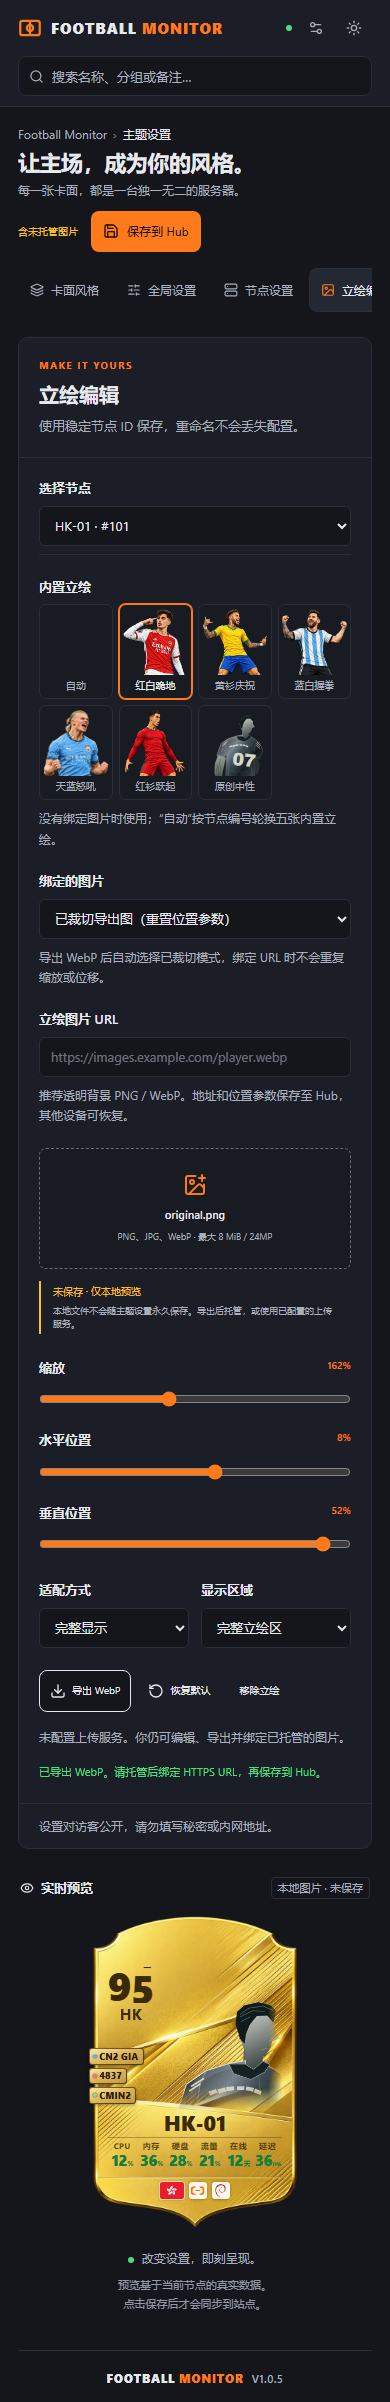
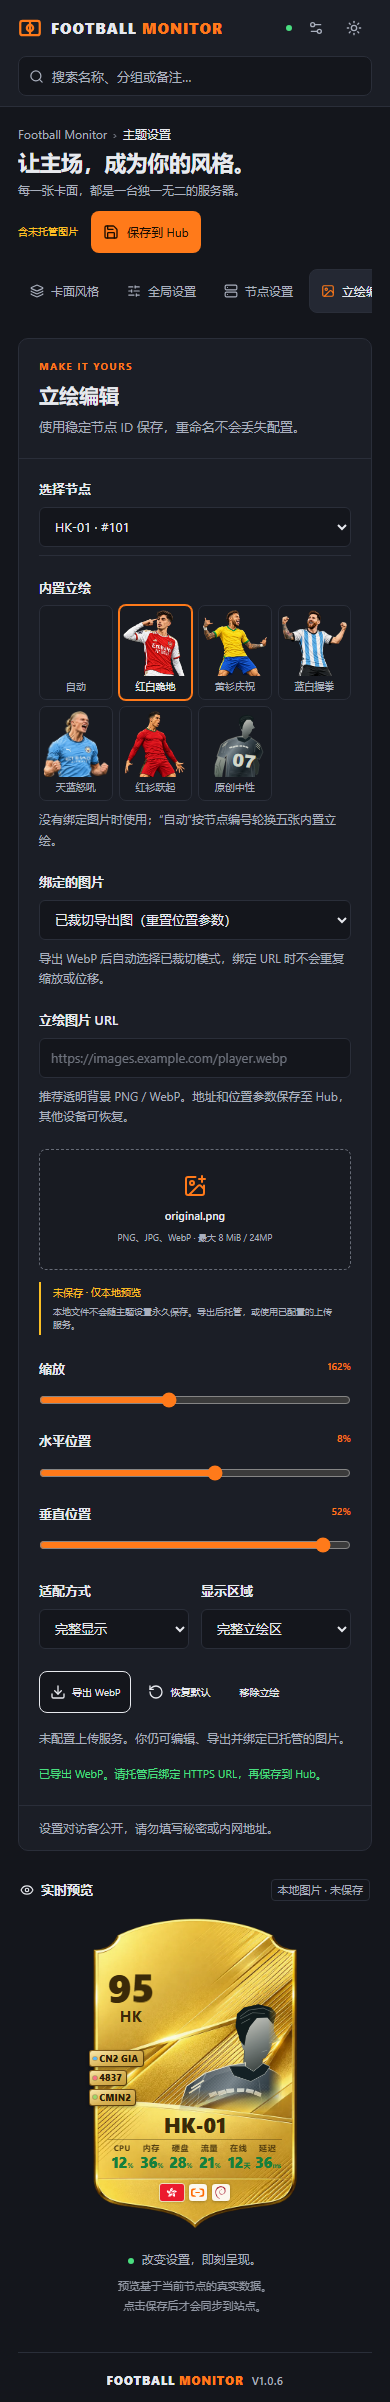
Football Monitor 1.0.6
Fuller overview tiles: bars and detail lines for online share, tier
split, memory and disk usage, monthly cost and today's traffic, plus
rate sparklines. Refreshes the e2e screenshots.

diff --git a/docs/manual.md b/docs/manual.md
@@ -1,6 +1,6 @@
 # Football Monitor
 
-**你的服务器，你的主场。** 为极简探针 Monitor 构建的第三方足球球星卡主题。Vue 3 静态 SPA，当前版本 `1.0.5`。源码与发布：<https://github.com/NSJLUCAS/football-monitor>。
+**你的服务器，你的主场。** 为极简探针 Monitor 构建的第三方足球球星卡主题。Vue 3 静态 SPA，当前版本 `1.0.6`。源码与发布：<https://github.com/NSJLUCAS/football-monitor>。
 
 ![首页：本地模拟 API 的视觉验收](docs/screenshots/dashboard-1440.png)
 
@@ -82,7 +82,7 @@ npm run package:check  # 独立 gzip/tar/manifest/资源/限制校验
 | `football-monitor.tar.gz` | 根部为 `football-monitor/` 目录                 | 人工解压得到完整主题目录，放入 Hub 的 `--themes` 目录；不要上传给后台安装器                   |
 | `SHA256SUMS.txt`          | 两个包的 SHA-256                                | `sha256sum -c SHA256SUMS.txt` 校验下载                                                        |
 
-两包包含相同构建文件，`short` 均为 `football-monitor`。`theme.json` 的 `url` 指向本仓库，`version` 与 release 标签一致（`v1.0.5` 对 `1.0.5`）。
+两包包含相同构建文件，`short` 均为 `football-monitor`。`theme.json` 的 `url` 指向本仓库，`version` 与 release 标签一致（`v1.0.6` 对 `1.0.6`）。
 
 三种安装方式：
 

diff --git a/CHANGELOG.md b/CHANGELOG.md
@@ -1,5 +1,12 @@
 # Changelog
 
+## 1.0.6 · 2026-10-28 · 首页汇总方块更充实
+
+### Added
+
+- 汇总方块加进度条与说明行：在线比例、金银铜档位分布、内存与硬盘用量、折合每月费用、今日流量。
+- 实时上行、下行方块显示最近速率折线。
+
 ## 1.0.5 · 2026-10-28 · 卡下实时条更整齐
 
 ### Changed

diff --git a/README.md b/README.md
@@ -2,7 +2,7 @@
 
 为极简探针 Monitor 打造的足球球星卡主题：每台服务器都是一名球员，**你的服务器，你的主场**。
 
-由 [NSJLUCAS](https://github.com/NSJLUCAS) 维护，当前版本 `1.0.5`。
+由 [NSJLUCAS](https://github.com/NSJLUCAS) 维护，当前版本 `1.0.6`。
 
 [![preview](preview.png)](preview.png)
 
